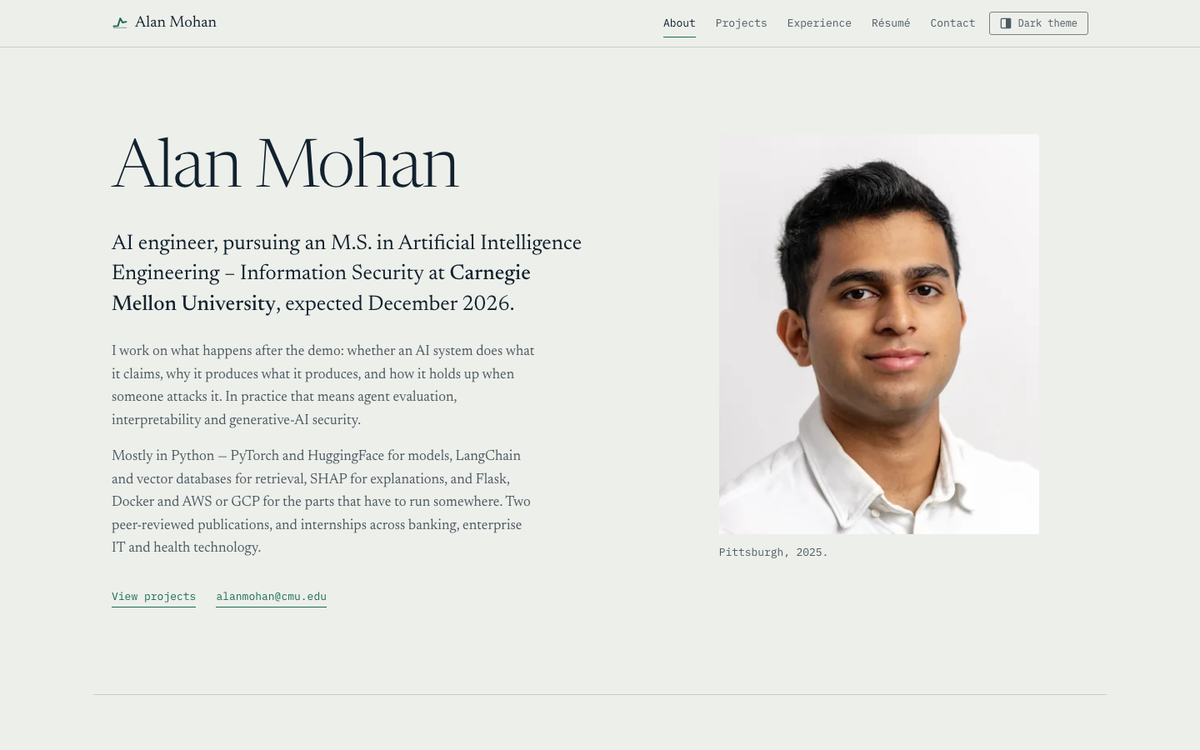
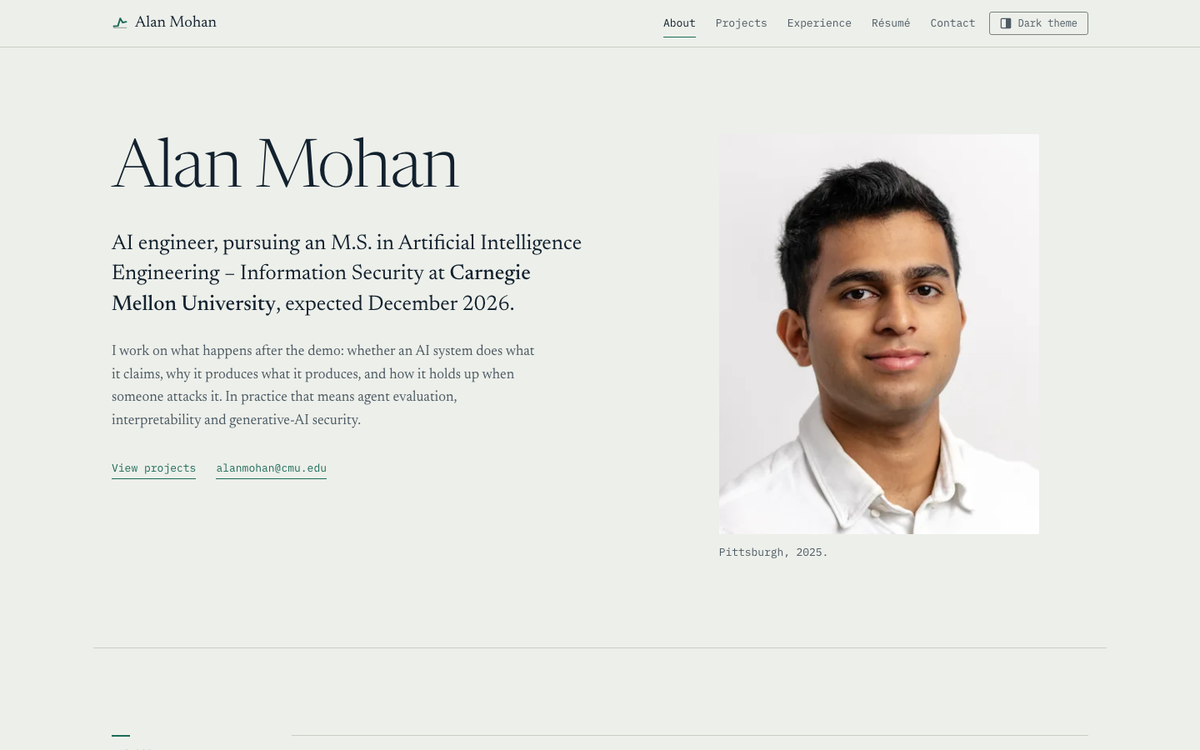
Add a Skills section; trim the About copy
- The second About paragraph is gone. The tools it listed now have their own
  Skills section, grouped the way the résumé groups them: programming,
  AI/ML and generative AI, cloud infrastructure.
- Closes the References entry for AI assistance, which was left ending
  mid-clause.

Also carries in the working-tree edits made outside this session: shorter rail
notes, no projects lede, no contact invitation, the Bank of New York role
description removed, the portrait credit removed from References, and the
prompt-log header block removed.

Changed region(s): [[0.0925, 0.5827, 0.4317, 0.736], [0.185, 0.7667, 0.2775, 0.828], [0.0925, 0.7667, 0.1542, 0.828]]

diff --git a/index.html b/index.html
@@ -121,13 +121,6 @@ try {
           someone attacks it. In practice that means agent evaluation,
           interpretability and generative-AI security.
         </p>
-        <p>
-          Mostly in Python — PyTorch and HuggingFace for models, LangChain and
-          vector databases for retrieval, SHAP for explanations, and Flask,
-          Docker and AWS or GCP for the parts that have to run somewhere. Two
-          peer-reviewed publications, and internships across banking, enterprise
-          IT and health technology.
-        </p>
       </div>
       <p class="hero__actions">
         <a class="link-strong" href="projects.html">View projects</a>
@@ -150,18 +143,35 @@ try {
   </section>
 
 
+
+  <!-- ============================ SKILLS ============================ -->
+  <section class="section" id="skills" aria-labelledby="skills-h">
+    <div class="rail">
+      <h2 class="section__h" id="skills-h">Skills</h2>
+    </div>
+
+    <dl class="skills wide">
+      <div class="skills__row">
+        <dt>Programming</dt>
+        <dd>Python (primary), Java, JavaScript, PHP, C/C++, SQL</dd>
+      </div>
+      <div class="skills__row">
+        <dt>AI/ML and generative AI</dt>
+        <dd>Generative AI, large language models (LLM), prompt engineering, explainable AI (XAI), PyTorch, Keras, LangChain, vector databases, retrieval-augmented generation (RAG), HuggingFace, MCP, LLM interpretability, LLM evals</dd>
+      </div>
+      <div class="skills__row">
+        <dt>Cloud infrastructure</dt>
+        <dd>AWS, GCP, Docker, CI/CD, Git, Linux, Flask</dd>
+      </div>
+    </dl>
+  </section>
+
   <!-- ============================ PROJECTS ============================ -->
   <!-- The index lives here; each tile opens its full write-up on projects.html. -->
   <section class="section" id="projects" aria-labelledby="proj-h">
     <div class="rail">
       <h2 class="section__h" id="proj-h">Projects</h2>
-      <p class="rail-note">Two published papers, one product, and this site.</p>
     </div>
-
-    <p class="flow lede">
-        Every figure comes from the paper, report or résumé it is attributed to.
-        The diagrams are drawn for this site; none of them are product screenshots.
-      </p>
 
         <ul class="tiles wide">
           <li class="tile">
@@ -194,22 +204,13 @@ try {
   <!-- ============================ EXPERIENCE ============================ -->
   <section class="section" id="experience" aria-labelledby="exp-h">
     <div class="rail">
-      <h2 class="section__h" id="exp-h">Experience</h2>
-      <p class="rail-note">Employer work is described only to the level already public in my résumé.</p>
+      <h2 class="section__h" id="exp-h">Experience</h2> 
     </div>
 
     <ol class="timeline wide">
       <li class="role">
         <p class="role__when"><span>May 2026 – August 2026</span><span>Pittsburgh, PA</span></p>
         <h3 class="role__h">AI Intern<span class="role__org">Bank of New York</span></h3>
-        <p>
-          I built the agent-evaluation platform for the firm's AI Hub, so that
-          judging an agent stopped being a manual, one-off exercise. The evaluation
-          engine carries more than thirty metrics — RAGAS, LLM-as-a-judge, and
-          multi-turn agent measures for goal completion, knowledge retention and
-          tool-use accuracy — behind a single workflow covering dataset management,
-          synthetic test-case generation, online evaluation and performance analysis.
-        </p>
       </li>
 
       <li class="role">
@@ -260,11 +261,6 @@ try {
       <h2 class="section__h" id="con-h">Contact</h2>
     </div>
     <div class="flow contact">
-      <p class="contact__invite">
-        If you are working on agent evaluation, interpretability, or the security of
-        retrieval systems — or you think one of the results on this site is wrong —
-        I would like to hear about it. Email reaches me fastest.
-      </p>
       <ul class="contact__list">
         <li>
           <span class="contact__k">Email</span>
@@ -288,10 +284,7 @@ try {
 </main>
 
 <!-- ============================ REFERENCES ============================ -->
-<!-- Only work that is not mine: the two webfonts, the photograph, and the AI
-     assistance used to build the site. Everything else here — the CSS, the
-     JavaScript, the SVG diagrams and the writing — is original, so it is not
-     listed. -->
+<!-- Used AI (claude code with opus 5) for designing the website, writing the code, generating SVG diagrams. Layout and content are original. -->
 <footer class="colophon" id="references">
   <div class="rail">
     <h2 class="section__h">References</h2>
@@ -303,12 +296,8 @@ try {
         <dd>Newsreader by Production Type and IBM Plex Mono by IBM, both under the <a href="https://openfontlicense.org/">SIL Open Font License</a>, served by <a href="https://fonts.google.com/">Google Fonts</a>.</dd>
       </div>
       <div>
-        <dt>Portrait</dt>
-        <dd>Photograph by Sally Maxson, © Carnegie Mellon University, from the Information Networking Institute student portrait session, 2025. Cropped for this site.</dd>
-      </div>
-      <div>
         <dt>AI assistance</dt>
-        <dd>Built with <a href="https://claude.ai/">Claude</a> (Anthropic). Where it shaped the architecture, the visual system, the responsive layout, the JavaScript or the accessibility work, the code says so in a comment; the full prompt log is in the repository.</dd>
+        <dd>Built with <a href="https://claude.ai/">Claude Code</a> (Anthropic). Significant use is marked in code comments; the full prompt log is in the repository.</dd>
       </div>
     </dl>
     <p class="colophon__foot">© 2026 Alan Mohan. <a href="#top">Back to top</a></p>

diff --git a/styles.css b/styles.css
@@ -431,6 +431,22 @@ figcaption {
 .portrait figcaption { color: var(--ink-muted); margin-top: var(--s-3); }
 
 /* -----------------------------------------------------------------------------
+   Skills — three groups, matching the way the résumé groups them
+   -------------------------------------------------------------------------- */
+.skills { display: grid; border-top: 1px solid var(--rule); }
+.skills__row {
+  display: grid;
+  gap: var(--s-1) var(--s-5);
+  padding-block: var(--s-4);
+  border-bottom: 1px solid var(--rule);
+}
+@media (min-width: 48em) {
+  .skills__row { grid-template-columns: 13rem minmax(0, 1fr); }
+}
+.skills dt { font-family: var(--font-mono); font-size: var(--t-sm); color: var(--ink-muted); }
+.skills dd { color: var(--ink); line-height: var(--lh-body); max-width: 62ch; }
+
+/* -----------------------------------------------------------------------------
    8. Projects — the tile index and the write-ups it opens
    -------------------------------------------------------------------------- */
 .page-title {

diff --git a/projects.html b/projects.html
@@ -554,7 +554,7 @@ try {
               </div>
               <div class="stat">
                 <dt>All HTML, CSS and JS, gzipped</dt>
-                <dd class="figure">16&nbsp;KB</dd>
+                <dd class="figure">17&nbsp;KB</dd>
               </div>
             </dl>
 

diff --git a/prompt-log.md b/prompt-log.md
@@ -1,24 +1,3 @@
-# Prompt log — Project 1, Personal Portfolio Website
-
-15-113 Effective Coding with AI. This file is the required record of AI use for
-this project.
-
-**What is in here.** The initiating prompt is recorded verbatim below, exactly as
-it was sent. Space is reserved beneath it for the assistant's replies and for
-every later exchange. Nothing in this file is summarised, paraphrased or
-reconstructed: any section still marked *not yet pasted* is empty because the
-text has not been copied in yet, not because it did not happen.
-
-**Tool used.** Claude Code (Claude Opus 5), run from the Claude desktop app, with
-the project folder as its working directory.
-
-**How to keep this file.** After each exchange, paste the prompt under a new
-`## Prompt N` heading and the assistant's reply under the matching
-`## Response N` heading. Paste the conversational text only — attached files and
-generated source do not need to be duplicated here.
-
----
-
 ## Prompt 1 — initiating prompt (verbatim, 3 September 2026)
 
 ```text

diff --git a/README.md b/README.md
@@ -36,8 +36,8 @@ Then visit <http://127.0.0.1:8113/>. Stop it with Ctrl-C.
 
 ```
 .
-├── index.html                     home: introduction, portrait, project tiles,
-│                                  experience, contact, references
+├── index.html                     home: introduction, portrait, skills, project
+│                                  tiles, experience, contact, references
 ├── projects.html                  the four project write-ups
 ├── resume.html                    the résumé in an inline viewer, with a download
 ├── styles.css                     design tokens and layout for all three pages
@@ -114,7 +114,7 @@ reveals and no hover transforms.
 
 ## Accessibility decisions
 
-Verified with an automated pass (87 checks) driven through the Chrome DevTools
+Verified with an automated pass (88 checks) driven through the Chrome DevTools
 Protocol, run against all three pages, plus manual inspection at three viewport
 widths in both themes.
 
